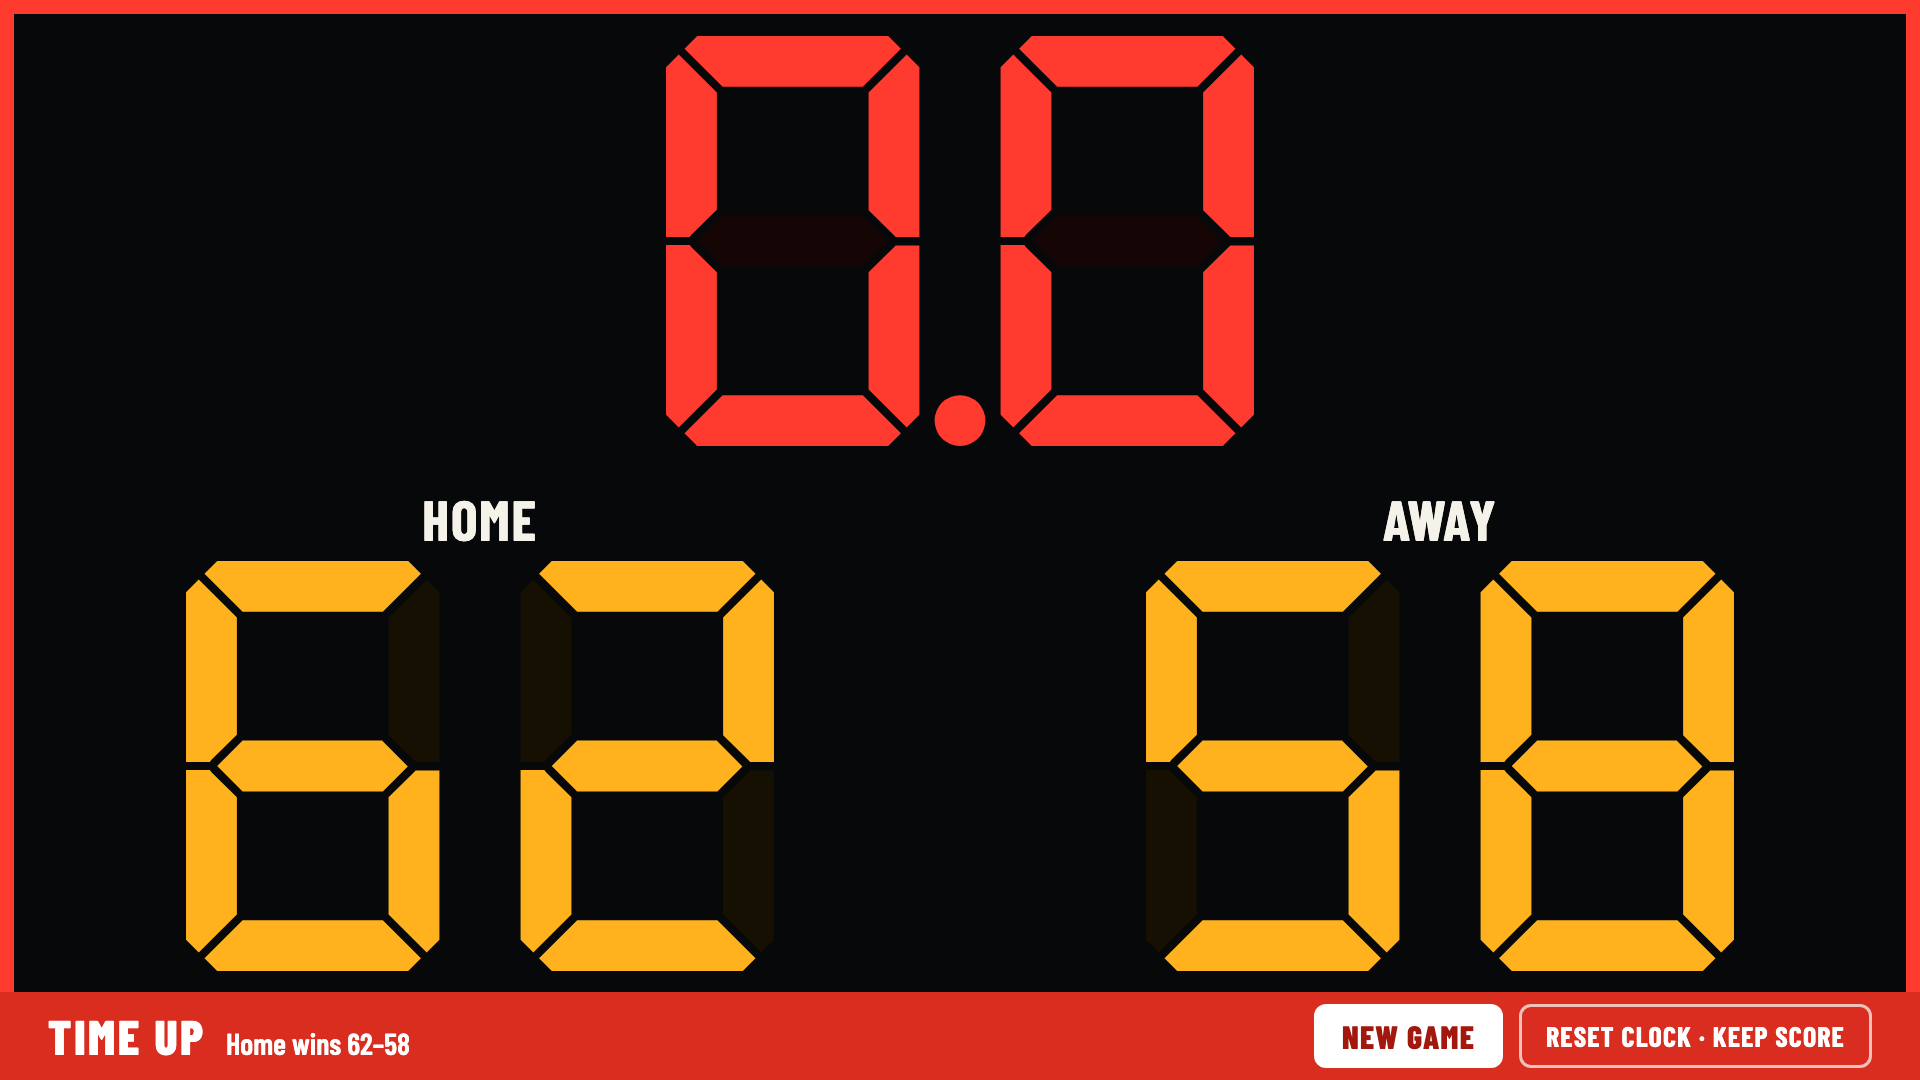
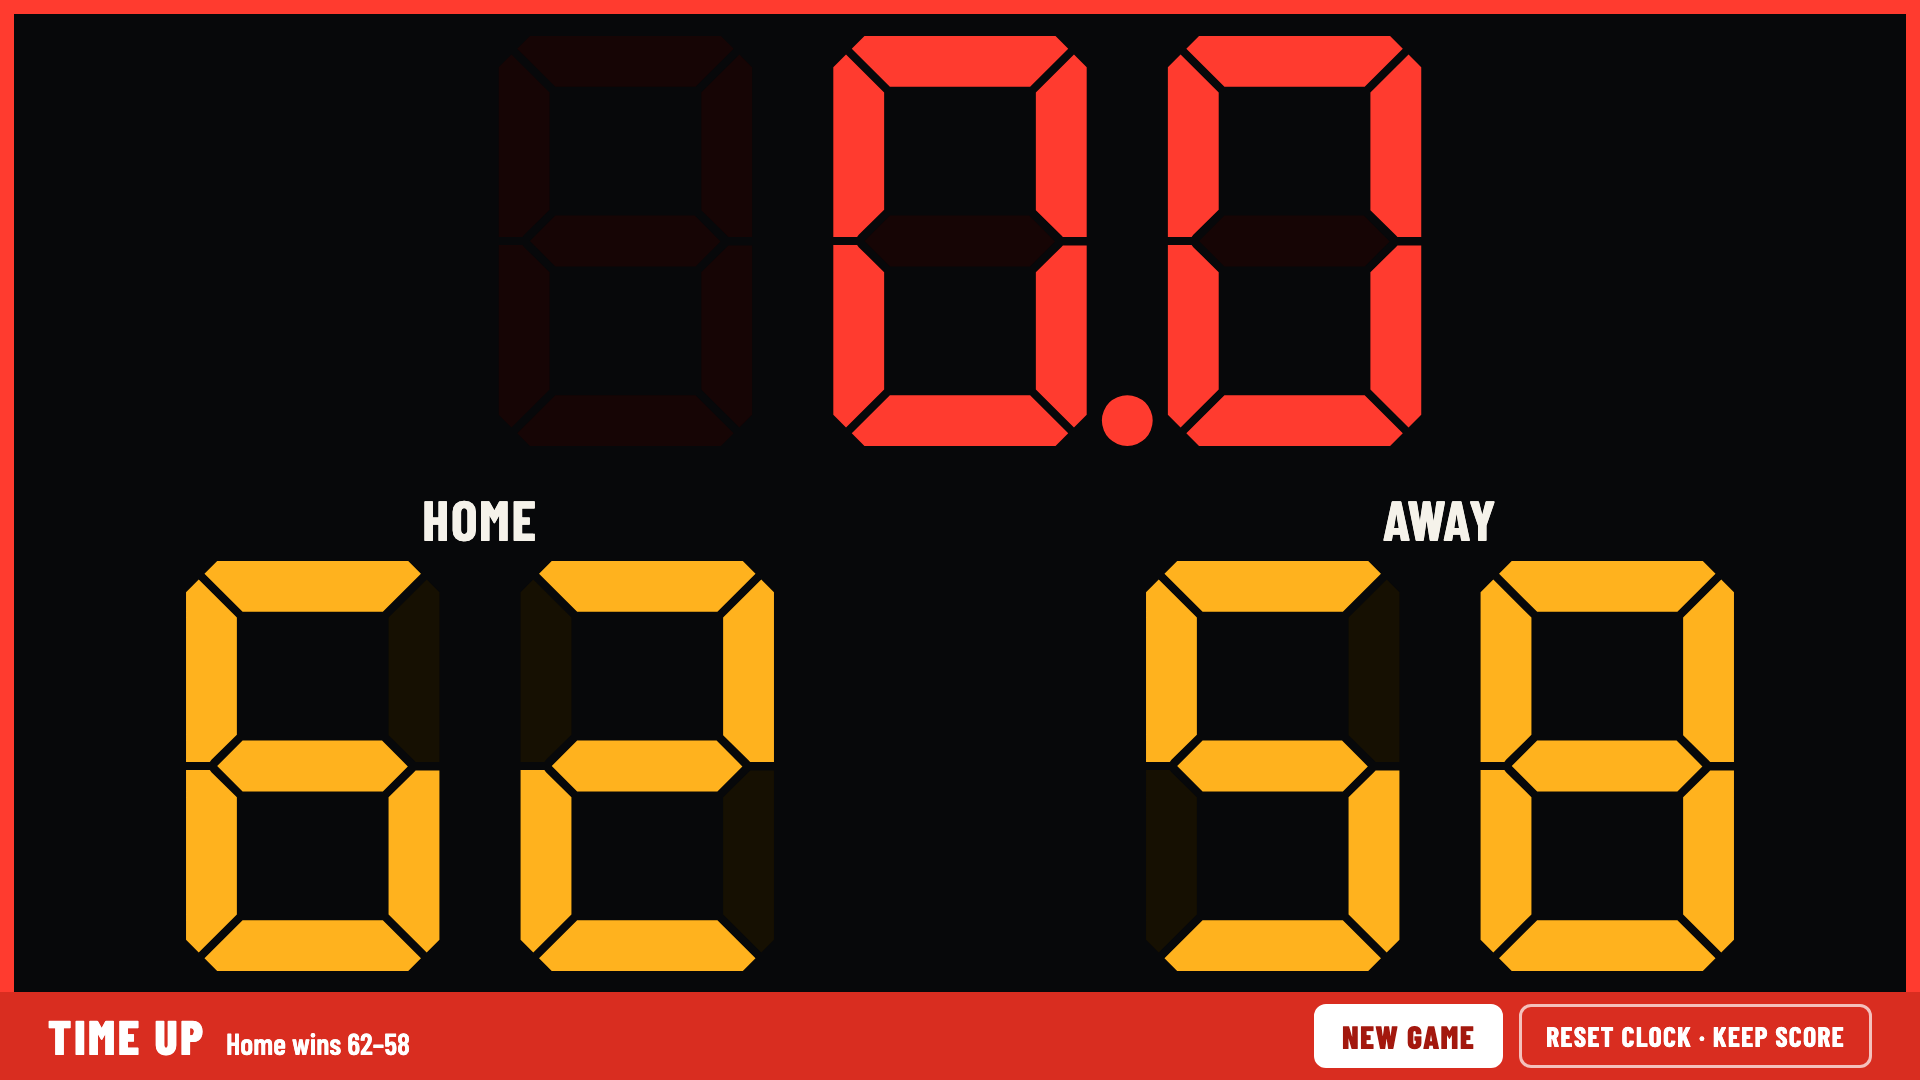
Give the Outdoor board faint unlit segments
On the Fire TV, the Outdoor board without unlit segments misplaced its digits: a lit 1 only uses its right-hand
segments, so 9:21 read as "9:2 1", and readings shorter than their cells (9:21, a score of 3) sat off-centre. Faint
segments (#EEEFF1 clock, #F6E7E8 scores) keep each digit in its cell; lit segments still stand out from them by about
86% of full contrast, against 25% for the indoor red clock.

- BoardMode's unlit colors are required again; the "no ghost" branches are gone.
- Design: the clock cells follow the app (88:88 and 88.8, from LedText.kt), so time up's 0.0 now shows its empty
  tens cell (03, 12, 16). Outdoor live game screens use 9:21 and 3–0, where the segments matter.

Checked on the Fire TV: Outdoor in Classic with 44.5 / 21.0 and 3–0.

Part of #37.

Changed region(s): [[0.3438, 0.0306, 0.75, 0.4278]]

diff --git a/tv-app/src/main/kotlin/net/pladum/tablero/tv/ScoreboardView.kt b/tv-app/src/main/kotlin/net/pladum/tablero/tv/ScoreboardView.kt
@@ -83,7 +83,6 @@ class ScoreboardView(
     private val clockBoxBorder = RectF()
     private val clockBoxBorderPaint = strokePaint(0, CLOCK_BOX_BORDER)
     private val clockPaint = ledPaint(Paint.Align.RIGHT)
-    private var hasClockGhost = false
     private val clockGhostPaint = ledPaint(Paint.Align.LEFT)
     private val ledCenterPerPx = clockPaint.centerToBaselinePerPx("8")
     private var ledBaselineOffset = 0f
@@ -267,9 +266,7 @@ class ScoreboardView(
         val clock = context.color(mode.clock)
         clockPaint.color = clock
         clockDimPaint.color = menu.dimmed(clock)
-        val clockUnlit = mode.clockUnlit
-        hasClockGhost = clockUnlit != null
-        if (clockUnlit != null) clockGhostPaint.color = context.color(clockUnlit)
+        clockGhostPaint.color = context.color(mode.clockUnlit)
         val text = context.color(mode.text)
         clockStatePaint.color = text
         statusIconPaint.color = text
@@ -385,7 +382,7 @@ class ScoreboardView(
             canvas.drawRoundRect(clockBox, CLOCK_BOX_RADIUS, CLOCK_BOX_RADIUS, clockBoxPaint)
             canvas.drawRoundRect(clockBoxBorder, CLOCK_BOX_RADIUS, CLOCK_BOX_RADIUS, clockBoxBorderPaint)
         }
-        if (hasClockGhost) canvas.drawText(clockGhost, clockGhostX, clockBaseline, clockGhostPaint)
+        canvas.drawText(clockGhost, clockGhostX, clockBaseline, clockGhostPaint)
 
         left.draw(canvas)
         right.draw(canvas)
@@ -434,8 +431,7 @@ class ScoreboardView(
     private fun ledPaint(align: Paint.Align) = textPaint(fonts.led, layout.ledSize, 0, align = align)
 
     /**
-     * One team column: its name (HOME / AWAY), score over its unlit segments when the mode has them. Placed by
-     * [place], colored by [setMode].
+     * One team column: its name (HOME / AWAY), score over its unlit segments. Placed by [place], colored by [setMode].
      */
     private inner class TeamSlot(side: Side) {
         private var score = -1
@@ -451,7 +447,6 @@ class ScoreboardView(
         private var scoreGhostX = 0f
         private var scoreRight = 0f
         private val scorePaint = ledPaint(Paint.Align.RIGHT)
-        private var hasGhost = false
         private val scoreGhostPaint = ledPaint(Paint.Align.LEFT)
         private var scoreBaseline = 0f
 
@@ -470,9 +465,7 @@ class ScoreboardView(
         fun setMode(mode: BoardMode, text: Int) {
             namePaint.color = text
             scorePaint.color = context.color(mode.score)
-            val unlit = mode.scoreUnlit
-            hasGhost = unlit != null
-            if (unlit != null) scoreGhostPaint.color = context.color(unlit)
+            scoreGhostPaint.color = context.color(mode.scoreUnlit)
         }
 
         /** Returns true when anything this column shows changed. */
@@ -496,7 +489,7 @@ class ScoreboardView(
 
         fun draw(canvas: Canvas) {
             canvas.drawText(name, centerX, nameBaseline, namePaint)
-            if (hasGhost) canvas.drawText(scoreGhost, scoreGhostX, scoreBaseline, scoreGhostPaint)
+            canvas.drawText(scoreGhost, scoreGhostX, scoreBaseline, scoreGhostPaint)
             canvas.drawText(scoreText, scoreRight, scoreBaseline, scorePaint)
         }
     }

diff --git a/docs/design/boards.html b/docs/design/boards.html
@@ -44,7 +44,8 @@
   --toast-off: var(--off);
 }
 /* Outdoor mode (boards 14–19): a light board for daylight courts. No clock box (its grey would cost the clock
-   contrast) and no unlit segments; the toast turns dark so it still stands out on white. */
+   contrast); faint unlit segments keep each digit's place (without them a 1 drifts right and a short reading looks
+   off-centre); the toast turns dark so it still stands out on white. */
 .outdoor {
   --board-bg: #FFFFFF;
   --board-text: #0A0A0A;
@@ -52,12 +53,13 @@
   --score: #B0121B;
   --clock-box: transparent;
   --clock-box-border: transparent;
+  --clock-ghost: #EEEFF1;
+  --score-ghost: #F6E7E8;
   --status-line: #E3E5E8;
   --toast-bg: #111317;
   --toast-ink: #F5F2EA;
   --toast-off: #8B919B;
 }
-.outdoor .ghost { visibility: hidden; }
 * { box-sizing: border-box; }
 body { margin: 0; background: var(--bg); color: var(--text); font-family: 'Barlow Condensed', sans-serif; }
 .screen { width: 1920px; height: 1080px; position: relative; overflow: hidden; background: var(--bg); }
@@ -223,7 +225,8 @@ const T = STRINGS[lang];
 document.documentElement.lang = lang;
 
 const esc = (s) => String(s).replace(/[&<>"]/g, (c) => ({ '&': '&amp;', '<': '&lt;', '>': '&gt;', '"': '&quot;' }[c]));
-const ghost = (s) => s.replace(/[0-9]/g, '8');
+/* As the app draws them (LedText.kt): MM:SS and SS.t readings over fixed 88:88 and 88.8 cells. */
+const ghost = (s) => (s.includes(':') ? '88:88' : '88.8');
 const scoreGhost = (s) => '8'.repeat(Math.max(2, s.length));
 const hint = (key, label) => `<span class="hint"><span class="keycap">${esc(key)}</span>${esc(label)}</span>`;
 const PAUSE_ICON = '<svg width="18" height="18" viewBox="0 0 18 18" aria-hidden="true"><rect x="2" y="1" width="5" height="16" rx="1" fill="currentColor"/><rect x="11" y="1" width="5" height="16" rx="1" fill="currentColor"/></svg>';
@@ -428,9 +431,12 @@ BOARDS['large-live-game'] = () => scoreboard({ large: true });
 BOARDS['large-time-up'] = () => BOARDS['time-up'](true);
 BOARDS['large-quick-clock-adjust'] = () => BOARDS['quick-clock-adjust'](true);
 
-for (const board of ['live-game', 'large-live-game', 'time-up', 'action-feedback', 'quick-clock-adjust', 'menu']) {
+for (const board of ['time-up', 'action-feedback', 'quick-clock-adjust', 'menu']) {
   BOARDS[`outdoor-${board}`] = BOARDS[board];
 }
+/* A 1, a short clock and one-digit scores: what the unlit segments have to hold in place. */
+BOARDS['outdoor-live-game'] = () => scoreboard({ leftScore: '3', rightScore: '0', clock: '9:21' });
+BOARDS['outdoor-large-live-game'] = () => scoreboard({ leftScore: '3', rightScore: '0', clock: '9:21', large: true });
 
 const id = BOARDS[params.get('board')] ? params.get('board') : 'live-game';
 document.title = `tablero — ${id} (${lang})`;

diff --git a/tv-app/src/main/kotlin/net/pladum/tablero/tv/BoardMode.kt b/tv-app/src/main/kotlin/net/pladum/tablero/tv/BoardMode.kt
@@ -7,8 +7,8 @@ private const val PREF_MODE = "mode"
 
 /**
  * The board's colors (docs/design/boards.html): Indoor is design 01–13, Outdoor is design 14–19. The menu's Mode row
- * chooses one; [ScoreboardView] and [FeedbackToast] read these values instead of branching on the mode. A null color
- * leaves that part out. The menu, its dialogs and the time-up and adjust bars look the same in both modes.
+ * chooses one; [ScoreboardView] and [FeedbackToast] read these values instead of branching on the mode. A null clock
+ * box color leaves the box out. The menu, its dialogs and the time-up and adjust bars look the same in both modes.
  */
 enum class BoardMode(
     val background: Int,
@@ -16,11 +16,9 @@ enum class BoardMode(
     val clockBox: Int?,
     val clockBoxBorder: Int?,
     val clock: Int,
-    /** The clock's unlit segments, or null for none. */
-    val clockUnlit: Int?,
+    val clockUnlit: Int,
     val score: Int,
-    /** The scores' unlit segments, or null for none. */
-    val scoreUnlit: Int?,
+    val scoreUnlit: Int,
     /** Team names and the status bar's text and icon. */
     val text: Int,
     val statusLine: Int,
@@ -50,17 +48,18 @@ enum class BoardMode(
 
     /**
      * For daylight, where reflections wash out a dark board and dim reds: black digits and deep red scores on white,
-     * no clock box or unlit segments (they would only take contrast), a dark confirmation, and the window at full
-     * brightness (which only reaches the backlight when tablero runs on the TV itself, not on a stick over HDMI).
+     * no clock box (its grey would only take contrast), faint unlit segments (without them a lit 1 drifts right and a
+     * short reading looks off-centre), a dark confirmation, and the window at full brightness (which only reaches the
+     * backlight when tablero runs on the TV itself, not on a stick over HDMI).
      */
     OUTDOOR(
         background = R.color.outdoor_background,
         clockBox = null,
         clockBoxBorder = null,
         clock = R.color.outdoor_ink,
-        clockUnlit = null,
+        clockUnlit = R.color.outdoor_ink_unlit,
         score = R.color.outdoor_score,
-        scoreUnlit = null,
+        scoreUnlit = R.color.outdoor_score_unlit,
         text = R.color.outdoor_ink,
         statusLine = R.color.outdoor_status_line,
         toastPanel = R.color.panel,

diff --git a/docs/design/README.md b/docs/design/README.md
@@ -18,7 +18,7 @@ and [`architecture.md`](../architecture.md); these images show how it looks.
 | 11 | [Large: live game](en/11-large-live-game.png) | The *Large* layout (menu → Layout): no clock box, clock and scores 410 px instead of 330, smaller team names |
 | 12 | [Large: time up](en/12-large-time-up.png) | Time up in the Large layout; the bar clears the scores |
 | 13 | [Large: quick clock adjust](en/13-large-quick-clock-adjust.png) | Quick clock adjust in the Large layout: the ring goes around the bare digits |
-| 14 | [Outdoor: live game](en/14-outdoor-live-game.png) | The *Outdoor* mode (menu → Mode) for daylight courts: white board, black clock and team names, deep red scores, no clock box, no unlit segments |
+| 14 | [Outdoor: live game](en/14-outdoor-live-game.png) | The *Outdoor* mode (menu → Mode) for daylight courts: white board, black clock and team names, deep red scores, no clock box, faint unlit segments; shown at `9:21` and 3–0, where they keep the digits in place |
 | 15 | [Outdoor: Large](en/15-outdoor-large-live-game.png) | Outdoor in the Large layout |
 | 16 | [Outdoor: time up](en/16-outdoor-time-up.png) | Time up in Outdoor: the red frame and bar are unchanged |
 | 17 | [Outdoor: action feedback](en/17-outdoor-action-feedback.png) | The confirmation turns dark so it stands out on the white board |
@@ -35,7 +35,9 @@ Numbers are fixed because issues link to the files; 04 (a next-game team picker)
   segments behind them. Game clock LED red `#FF3B2F`, scores LED amber `#FFB21E`.
 - **Outdoor** mode: in daylight, reflections wash out a dark screen and dim reds, so the board turns light, like the
   day mode of maps apps: white background, clock and team names `#0A0A0A`, scores deep red `#B0121B`, no clock box
-  (its grey would take contrast from the clock; the digits stay where Classic puts them), no unlit segments. The confirmation becomes a dark panel; menu, dialogs, time-up and adjust bars keep
+  (its grey would take contrast from the clock; the digits stay where Classic puts them), and faint unlit segments
+  (`#EEEFF1` clock, `#F6E7E8` scores). Without them a lit 1 drifts right of its cell and a short reading (`9:21`,
+  `3`) looks off-centre. The confirmation becomes a dark panel; menu, dialogs, time-up and adjust bars keep
   their colors.
 - Teams are named by side, in white: `HOME` (left) and `AWAY` (right), `LOCAL` / `VISITA` in Spanish.
 - UI text in **Barlow Condensed**; key hints drawn as outlined keycaps.

diff --git a/docs/architecture.md b/docs/architecture.md
@@ -132,9 +132,9 @@ value, OK opens the focused row.
   adjust ring); `ScoreboardView` reads those values instead of branching on the layout.
 - **Mode** (*Indoor* / *Outdoor*, design 01 / 14) works the same way: every ←/→ press repaints the board behind the
   menu, and the choice is saved in preferences (`ModeSetting`); a fresh install starts on Indoor. Each mode is a
-  `BoardMode` value holding the board's colors (a null color leaves that part out: Outdoor has no clock box and no
-  unlit segments) and the window brightness the activity asks for (`BRIGHTNESS_OVERRIDE_FULL` outdoors). The
-  menu, dialogs, time-up and adjust bars keep their colors in both modes.
+  `BoardMode` value holding the board's colors (a null clock box color leaves the box out, as Outdoor does) and the
+  window brightness the activity asks for (`BRIGHTNESS_OVERRIDE_FULL` outdoors). The menu, dialogs, time-up and
+  adjust bars keep their colors in both modes.
 - **Game clock** opens the set game clock dialog (design 08) only while the clock is stopped: ↑/↓ change the focused
   field (minutes stop at 0 and 60, seconds wrap without carrying), ←/→ switch field, OK sends one `SetGameClock`
   (nothing when the time wasn't changed), Back cancels; both return to the menu.

diff --git a/CLAUDE.md b/CLAUDE.md
@@ -107,8 +107,8 @@ tablero/
   (`BoardLayout`): **Classic** (default; clock in a box, 330 px digits) and **Large** (no clock box, 410 px digits,
   smaller team names, ≥ 36 px from every edge for TVs that overscan).
 - Two modes, chosen in the menu (`BoardMode`, colors as data): **Indoor** (default; the LED look above) and
-  **Outdoor** for daylight courts: white board, black clock and team names, deep red scores, no clock box and no
-  unlit segments, a dark confirmation, and full window brightness (it only reaches the backlight on a Google TV set,
+  **Outdoor** for daylight courts: white board, black clock and team names, deep red scores, no clock box, faint
+  unlit segments (they keep each digit's place), a dark confirmation, and full window brightness (it only reaches the backlight on a Google TV set,
   not on a stick over HDMI). Menu, dialogs, time-up and adjust bars look the same in both modes.
 
 ## Remote control mapping (Phase 1, Xiaomi Bluetooth remote)
